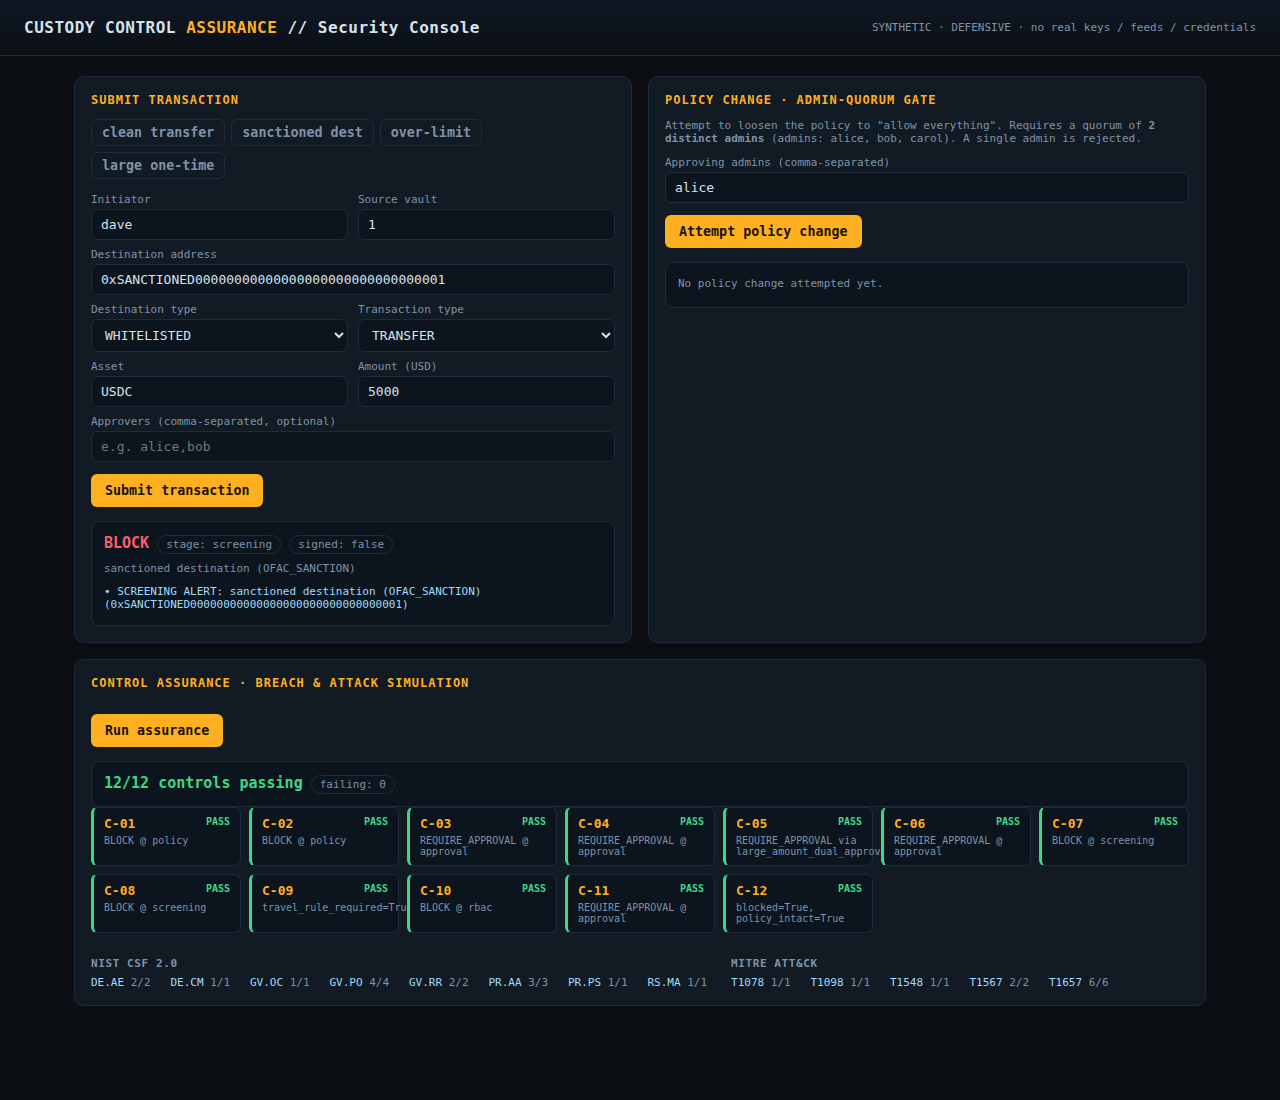
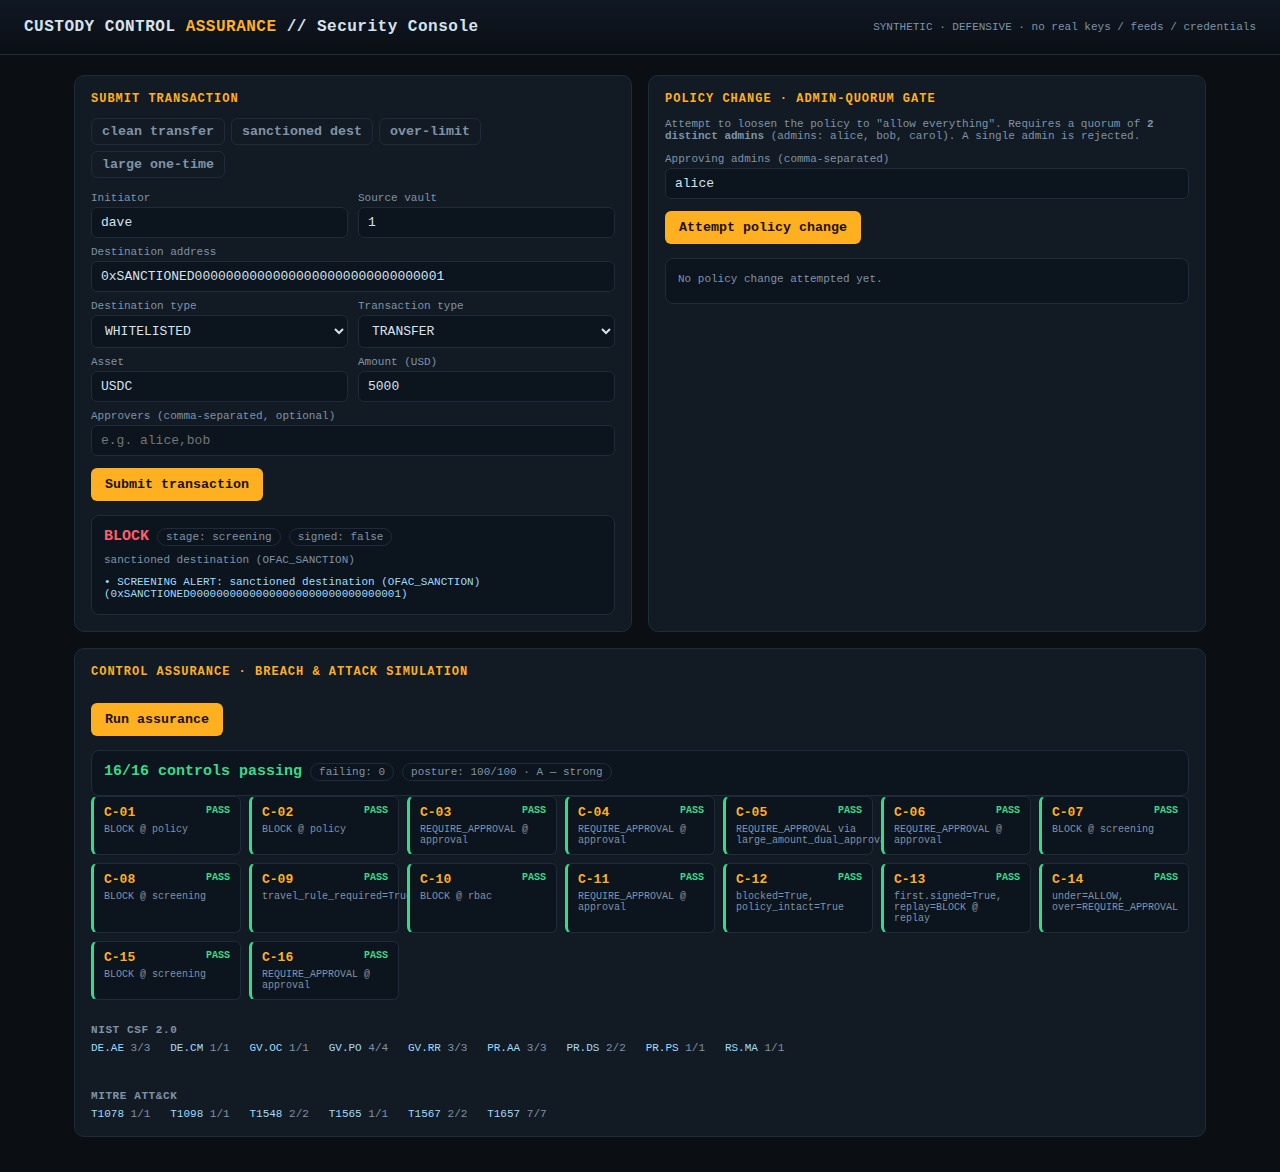
docs+ci: Dockerfile, GitHub Pages publish, README/atlas refresh (v2.0)
Phase 8.6 — Dockerfile (uv, serves API+console) + .dockerignore; CI job that
publishes the live assurance HTML report to GitHub Pages on main. README rewritten
for v2.0: 16 mock + 5 live on-chain controls, posture score, ATT&CK Navigator /
SARIF / JUnit exports, Prometheus + run-history observability, refreshed
screenshots (report with posture + trend, on-chain report, drift). THREAT_MODEL
adds T1565 + the new controls. Final state: 84 pytest, 9 Playwright, ruff+black,
mock 16/16 + live on-chain 5/5, posture 100/100.

diff --git a/README.md b/README.md
@@ -6,17 +6,16 @@ A **synthetic, purely defensive** Breach & Attack Simulation (BAS) lab that mode
 governance stack of an institutional digital-asset **custody** platform — a Transaction
 Authorization Policy (TAP) engine, pre-signing compliance screening, RBAC with
 segregation-of-duties, and an admin-quorum gate on policy changes — and then
-**continuously attacks those controls to prove they hold**, reporting coverage mapped to
-**MITRE ATT&CK** and **NIST CSF 2.0**. There are **no real keys, no real sanctions feeds,
-and no real exchange or API credentials** anywhere in this repository; the "system under
-test" is a small, honest model of the controls, and every simulation validates that a
-control **blocks, escalates, or detects** an attacker action — it never attacks a real
-system.
+**continuously attacks those controls to prove they hold**, scoring a severity-weighted
+**risk posture** and mapping coverage to **MITRE ATT&CK** and **NIST CSF 2.0**. There are
+**no real keys, no real sanctions feeds, and no real exchange or API credentials** anywhere
+in this repository; every simulation validates that a control **blocks, escalates, detects,
+or flags** an attacker action — it never attacks a real system.
 
-> **Why this exists.** Most candidates *talk* about validating controls. This *runs* the
-> validate-and-verify loop: it stands up the controls, emulates the attacker, asserts each
-> control holds, and — the part that matters — **catches a control the moment it
-> regresses**, with executive-readable evidence, in CI.
+> **The differentiator:** the same harness runs against a **mock** custody platform *and*,
+> read-only, against a **real deployed** institutional protocol on **Base Sepolia** — and it
+> **catches a control the moment it regresses** (drift), with executive-readable evidence,
+> in CI. Most candidates *talk* about validating controls; this *runs* the loop.
 
 ![Security console](docs/img/console.png)
 
@@ -24,117 +23,140 @@ system.
 
 ## What it does
 
-1. **Models the custody governance stack** (`src/cal/custody/`) — the *system under test*:
-   a pure TAP policy engine, compliance screening, RBAC + four-eyes, and an admin-quorum
-   governor, wired into a single `submit()` pipeline.
-2. **Runs 12 Breach & Attack Simulations** (`src/cal/assurance/`) — one attacker scenario
-   per control objective — and asserts the control **blocks / escalates / denies / flags**
-   correctly.
-3. **Produces an assurance report** mapped to MITRE ATT&CK + NIST CSF 2.0 — coverage,
-   pass/fail, and **drift vs a baseline** — as JSON and a standalone dark HTML console.
-4. Is exercised by **pytest** (control/API level) and **Playwright** (UI/E2E, Page Object
-   Model), all wired into **GitHub Actions CI**.
+1. **Models the custody governance stack** (`src/cal/custody/`) — the *system under test*: a
+   pure TAP policy engine, compliance screening, RBAC + four-eyes, an admin-quorum governor,
+   and replay protection, wired into one `submit()` pipeline.
+2. **Runs 16 Breach & Attack Simulations** (`src/cal/assurance/`) — one attacker scenario per
+   control objective — and asserts each control behaves correctly.
+3. **Validates a real on-chain protocol** (`src/cal/onchain/`) — 5 read-only checks against
+   the deployed `nexus-protocol` compliance/governance contracts on Base Sepolia, including
+   **wiring-intact drift detection** (is the denylist/KYC gate still connected?).
+4. **Scores risk posture & reports** — a severity-weighted posture score (0–100) + rating,
+   coverage by ATT&CK technique and CSF function, **drift vs baseline**, and a **posture
+   trend** — as a standalone dark HTML console, JSON, **ATT&CK Navigator layer**, **SARIF**
+   (GitHub Security tab), and **JUnit**.
+5. Is exercised by **pytest** (84 control/API/export tests) and **Playwright** (E2E, strict
+   Page Object Model), with **GitHub Actions** CI, a **Prometheus** `/metrics` endpoint, and
+   a **Docker** image.
 
 ## Architecture — the submit pipeline
 
 Each stage is a control the assurance layer validates:
 
 ```
-submit(tx) → [1 RBAC] → [2 screening] → [3 TAP policy] → [4 approval/quorum] → [5 mock signer]
-              authz fail    sanction →BLOCK   rule →ALLOW /        needs X-of-Y &     only if fully
-              → BLOCK       risk →BLOCK        BLOCK / ESCALATE     four-eyes / quorum  ALLOWed
-                            travel-rule flag
+submit(tx) → [0 replay] → [1 RBAC] → [2 screening] → [3 TAP policy] → [4 approval/quorum] → [5 mock signer]
+              dup id        authz fail   sanction→BLOCK    rule→ALLOW/        needs X-of-Y &       only if fully
+              → BLOCK       → BLOCK      risk→BLOCK         BLOCK/ESCALATE     four-eyes/quorum     ALLOWed
+                                         travel-rule flag
 ```
 
 ```
 src/cal/
-├── models.py            TransactionRequest, Decision, enums, results (Decimal money)
-├── clock.py             injectable clock — no wall-clock reads in business logic
-├── custody/             ← SYSTEM UNDER TEST
-│   ├── policy_engine.py   TAP: ordered, top-down first-match, default-deny, velocity
-│   ├── screening.py       sanctions / risk score / Travel Rule
-│   ├── rbac.py            roles, four-eyes SoD, admin-quorum governor
-│   └── platform.py        submit pipeline wiring every control together
-├── assurance/           ← THE VALIDATION FRAMEWORK
-│   ├── controls.py        registry: control → MITRE ATT&CK + NIST CSF 2.0
-│   ├── simulations.py     12 BAS scenarios (one per control objective)
-│   ├── runner.py          orchestrate sims, compute coverage + drift
-│   └── report.py          emit JSON + standalone HTML assurance report
-└── api/app.py           FastAPI surface  ·  console/index.html  security console (E2E target)
+├── models.py            Decimal money, enums, results
+├── clock.py             injectable clock — no wall-clock in business logic
+├── custody/             ← SYSTEM UNDER TEST (TAP engine, screening, RBAC, quorum, pipeline)
+├── assurance/           ← VALIDATION FRAMEWORK
+│   ├── controls.py        registry + MITRE ATT&CK + NIST CSF 2.0 + severity
+│   ├── simulations.py     16 BAS scenarios (one per control)
+│   ├── runner.py          orchestrate, coverage, drift, posture score
+│   ├── report.py          standalone dark HTML (grid, coverage, drift, trend)
+│   ├── exports.py         ATT&CK Navigator layer · SARIF · JUnit
+│   └── history.py         append-only run history (continuous monitoring)
+├── onchain/             ← LIVE TARGET (read-only eth_call against Base Sepolia)
+└── api/                 FastAPI + /metrics (Prometheus) · console/index.html (E2E target)
 ```
 
-## The control catalog
+## The control catalog (16 mock + 5 on-chain)
 
-| ID | Control objective | Stage | MITRE | NIST CSF 2.0 | Validated by |
-|----|------------------|-------|-------|--------------|--------------|
-| C-01 | Default-deny: unmatched tx is blocked | Policy | T1567 | PR.AA / GV.PO | `sim_default_deny` |
-| C-02 | Destination allowlist enforced | Policy | T1567 | PR.AA | `sim_non_whitelisted_dest` |
-| C-03 | Amount limit triggers approval (boundary-correct) | Policy | T1657 | GV.PO | `sim_over_limit_approval` |
-| C-04 | Velocity cap on rolling window | Policy | T1657 | DE.CM | `sim_velocity_drain` |
-| C-05 | Rule-ordering / shadowing: intended rule wins | Policy | T1657 | GV.PO | `sim_rule_shadowing` |
-| C-06 | Type-confusion bypass blocked (CONTRACT_CALL/APPROVE governed) | Policy | T1657 | PR.PS | `sim_contract_call_bypass` |
-| C-07 | Sanctioned destination blocked + alert | Screening | T1657 | DE.AE / RS.MA | `sim_sanctioned_dest` |
-| C-08 | High-risk score blocked (boundary-correct) | Screening | T1657 | DE.AE | `sim_high_risk_score` |
-| C-09 | Travel Rule flagged above threshold | Screening | — | GV.OC | `sim_travel_rule` |
-| C-10 | RBAC: non-initiator role cannot submit | Access | T1078 | PR.AA | `sim_rbac_denied` |
-| C-11 | Four-eyes / SoD: initiator cannot self-approve | Approval | T1548 | GV.RR | `sim_self_approval` |
-| C-12 | Admin quorum required to change policy | Governance | T1098 | GV.RR / GV.PO | `sim_quorum_bypass` |
+| ID | Control objective | Stage | Sev | MITRE | NIST CSF 2.0 |
+|----|------------------|-------|-----|-------|--------------|
+| C-01 | Default-deny: unmatched tx blocked | Policy | high | T1567 | PR.AA / GV.PO |
+| C-02 | Destination allowlist enforced | Policy | high | T1567 | PR.AA |
+| C-03 | Amount limit → approval (boundary-correct) | Policy | high | T1657 | GV.PO |
+| C-04 | Velocity cap on rolling window | Policy | high | T1657 | DE.CM |
+| C-05 | Rule-ordering / shadowing: intended rule wins | Policy | medium | T1657 | GV.PO |
+| C-06 | Type-confusion bypass blocked | Policy | high | T1657 | PR.PS |
+| C-07 | Sanctioned destination blocked + alert | Screening | **critical** | T1657 | DE.AE / RS.MA |
+| C-08 | High-risk score blocked (boundary-correct) | Screening | high | T1657 | DE.AE |
+| C-09 | Travel Rule flagged above threshold | Screening | medium | — | GV.OC |
+| C-10 | RBAC: non-initiator cannot submit | Access | high | T1078 | PR.AA |
+| C-11 | Four-eyes: initiator cannot self-approve | Approval | **critical** | T1548 | GV.RR |
+| C-12 | Admin quorum required to change policy | Governance | **critical** | T1098 | GV.RR / GV.PO |
+| C-13 | Replay/idempotency: executed request cannot replay | Pipeline | **critical** | T1565 | PR.DS |
+| C-14 | Decimal-precision integrity (no float money) | Policy | medium | — | PR.DS |
+| C-15 | Address-normalization: case-varied sanction blocked | Screening | high | T1657 | DE.AE |
+| C-16 | Approver-set integrity: duplicates can't inflate count | Approval | high | T1548 | GV.RR |
+| OC-01..05 | Live nexus-protocol on Base Sepolia: reachability, **restriction-list & KYC wiring intact**, denylist surface, mint ceiling | On-chain | up to **critical** | T1565/T1657 | PR.PS / DE.CM / DE.AE … |
 
-Full prose per control: [`atlas/CONTROL_CATALOG.md`](atlas/CONTROL_CATALOG.md). Per-stage
-threats: [`atlas/THREAT_MODEL.md`](atlas/THREAT_MODEL.md).
+Full prose: [`atlas/CONTROL_CATALOG.md`](atlas/CONTROL_CATALOG.md) · threat model:
+[`atlas/THREAT_MODEL.md`](atlas/THREAT_MODEL.md).
 
 ## Quickstart
 
 ```bash
-make install     # uv sync + Playwright chromium
-make test        # uv run pytest -n auto         (63 control/API tests)
-make assure      # run the BAS suite -> reports/assurance.{json,html} + prints the table
-make serve       # API + security console at http://127.0.0.1:8000/
-make e2e         # Playwright E2E (Page Object Model)
-make lint        # ruff + black --check
+make install                                   # uv sync + Playwright chromium
+make test                                      # pytest -n auto  (84 tests)
+make assure                                    # BAS suite -> reports/ + posture table
+make serve                                     # API + console at http://127.0.0.1:8000/
+make e2e                                       # Playwright E2E (Page Object Model)
+
+# Live on-chain target (optional extra; read-only, public testnet):
+uv sync --extra onchain
+uv run python scripts/run_assurance.py --target both
 ```
 
-## How the assurance report works
+`make assure` writes `reports/assurance.{html,json}`, an **ATT&CK Navigator layer**
+(`navigator-layer.json`), **SARIF** (`assurance.sarif`), **JUnit** (`assurance-junit.xml`),
+appends to the run history, and exits non-zero if any control fails (skipped on-chain
+controls don't fail the run). The CI also publishes the live HTML report to **GitHub Pages**.
 
-`make assure` runs every simulation against a freshly-built reference platform, joins the
-results to the control registry, computes per-CSF and per-ATT&CK coverage, and writes a
-standalone HTML report (plus JSON). Pass `--baseline reports/baseline.json` to compute
-**drift** — controls that regressed since the last run. The CLI exits non-zero if any
-control fails, so it gates CI.
-
-| All controls green | A regression detected (drift) |
-|---|---|
-| ![report](docs/img/assurance-report.png) | ![drift](docs/img/assurance-drift.png) |
-
-### See the drift loop yourself
+## The drift loop (the centerpiece)
 
 ```bash
 ./scripts/demo.sh        # baseline → regress the policy → harness catches drift → restore
 ```
 
-This is the centerpiece: weaken one limit and the harness immediately turns the affected
-controls **red** and reports them as drift — proving it actually detects an *ineffective*
-control, not just a passing one. (The same behavior is asserted as a "negative control"
-unit test in `tests/python/test_assurance_runner.py`.)
+Weaken one limit and the harness turns the affected controls **red**, reports them as drift,
+and the **posture score drops** (a critical-control regression hurts more than a medium one):
+
+| All controls green (posture 100 · A) | A regression detected (posture 57 · D) |
+|---|---|
+| ![report](docs/img/assurance-report.png) | ![drift](docs/img/assurance-drift.png) |
+
+## Live on-chain validation
+
+The same discipline, pointed at the **real deployed** `nexus-protocol` on Base Sepolia
+(public testnet, strictly read-only — no keys, no transactions). OC-02/OC-03 confirm the
+`TransferRestrictions` contract is still wired to the expected `RestrictionList`/`KYCRegistry`
+— i.e. that the denylist and KYC gate haven't been silently disconnected (drift on production
+state). Offline or without web3, these report **SKIPPED**, never failed.
+
+![on-chain report](docs/img/assurance-onchain.png)
+
+## Observability & interop
+
+- **Prometheus** — `GET /metrics` exposes `cal_posture_score`, `cal_controls_*`, and
+  per-control `cal_control_pass{control,severity}` gauges.
+- **Run history & trend** — every run appends to `reports/history.jsonl`; the HTML report
+  renders a posture sparkline. `GET /assurance/history` serves it.
+- **MITRE ATT&CK Navigator** — load `navigator-layer.json` into the official Navigator.
+- **SARIF** — failing controls surface in the GitHub **code-scanning / Security** tab.
+- **Docker** — `docker build -t cal . && docker run -p 8000:8000 cal` serves the console.
 
 ## How this maps to security-assurance practice
 
-- **Control validation / continuous assurance** — controls are *tested*, not assumed;
-  every run is evidence.
-- **Breach & Attack Simulation** — automated attacker emulation per control objective.
-- **MITRE ATT&CK + NIST CSF 2.0** — each control is mapped, and coverage is reported by
-  technique and by CSF function.
-- **Drift detection** — a baseline + diff catches a control the moment it regresses.
-- **Defense in depth** — the pipeline terminates at the first control that fires; the
-  drift demo shows how weakening one layer degrades several.
+Control validation / continuous assurance · Breach & Attack Simulation · MITRE ATT&CK +
+NIST CSF 2.0 mapping & coverage · severity-weighted risk posture · drift detection (mock
+*and* on-chain) · defense-in-depth · observability (metrics/history) · CI-native evidence
+(SARIF/JUnit/Navigator).
 
 ## Scope & safety
 
-Everything here is **synthetic and defensive**. No real private keys, no real sanctions
-or OFAC feed (`data/sanctions.sample.json` is fabricated and labelled `SYNTHETIC TEST
-DATA`), no real exchange/API credentials, and no tooling that attacks any real system.
-Money is always `decimal.Decimal`; business logic never reads the wall clock. The control
-*semantics* are modeled on a real, independently-built institutional digital-asset
-compliance layer (an OFAC-style restriction list, a KYC registry, per-minter mint
-ceilings, and a Governor/Timelock), re-expressed here as a small honest model so the
-controls can be attacked and validated offline.
+Everything is **synthetic and defensive**. No real private keys, no real sanctions/OFAC feed
+(`data/sanctions.sample.json` is fabricated and labelled `SYNTHETIC TEST DATA`), no exchange/
+API credentials, and no tooling that attacks any real system — the on-chain target is
+read-only `eth_call` against a public testnet. Money is always `decimal.Decimal`; business
+logic never reads the wall clock. Control *semantics* are modeled on a real, independently-
+built institutional digital-asset compliance layer (an OFAC-style restriction list, a KYC
+registry, per-minter mint ceilings, and a Governor/Timelock), re-expressed here as a small
+honest model so the controls can be attacked and validated.

diff --git a/atlas/THREAT_MODEL.md b/atlas/THREAT_MODEL.md
@@ -41,9 +41,14 @@ a policy control is weakened.
 |-----------|--------------------|----------|
 | T1078 | Valid Accounts (unauthorized principal) | C-10 |
 | T1098 | Account Manipulation (privileged change) | C-12 |
-| T1548 | Abuse Elevation / control bypass (self-approval) | C-11 |
+| T1548 | Abuse Elevation / control bypass (self-approval, approver padding) | C-11, C-16 |
+| T1565 | Data Manipulation (replay, on-chain config/wiring) | C-13, OC-02, OC-03 |
 | T1567 | Exfiltration to external destination | C-01, C-02 |
-| T1657 | Financial Theft (limits, velocity, screening, type confusion) | C-03, C-04, C-05, C-06, C-07, C-08 |
+| T1657 | Financial Theft (limits, velocity, screening, type confusion, normalization) | C-03, C-04, C-05, C-06, C-07, C-08, C-15, OC-04, OC-05 |
+
+Integrity controls C-14 (Decimal-precision) and C-09 (Travel Rule) are regulatory/data
+properties with no single ATT&CK technique; they contribute to CSF coverage. The on-chain
+controls (OC-01..05) validate the same objectives against the real deployed protocol.
 
 ## NIST CSF 2.0 functions covered
 
